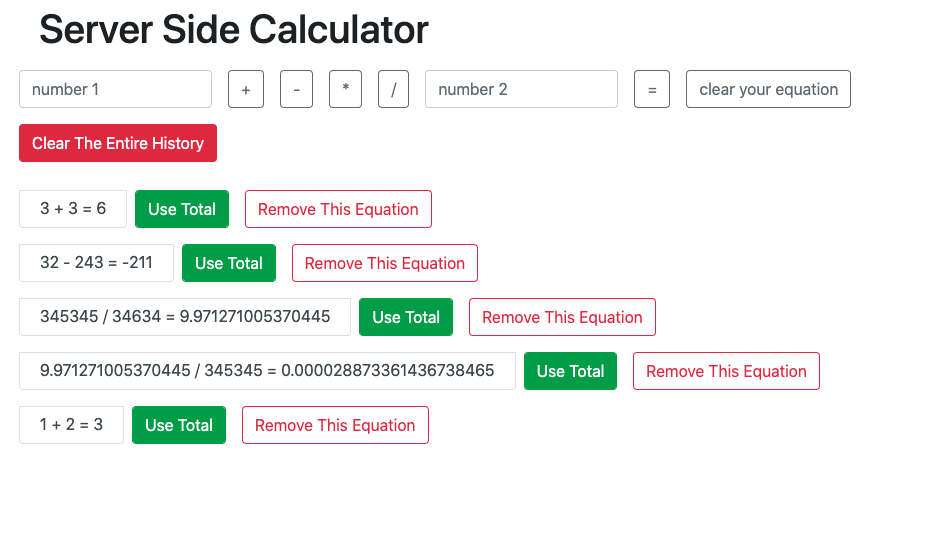
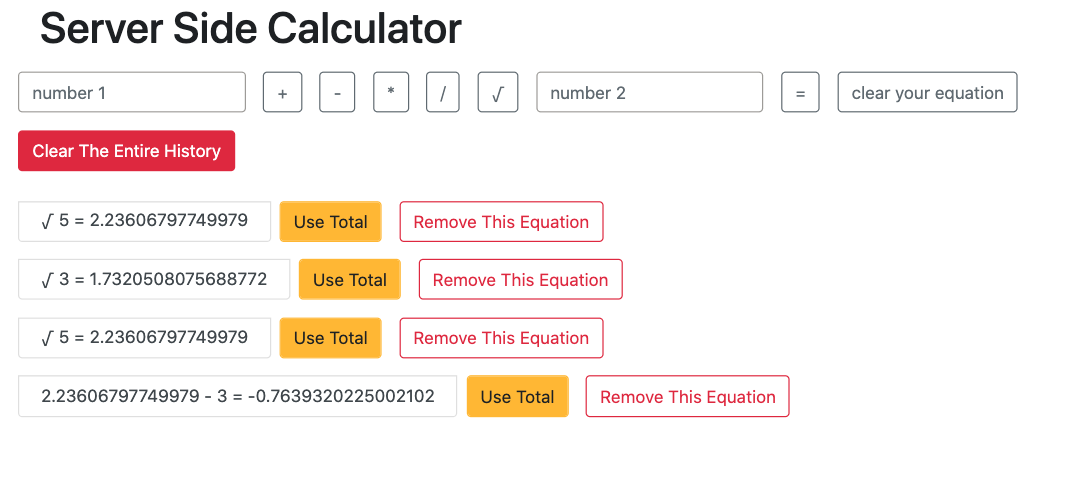
final project commit to turn in

Changed region(s): [[0.0, 0.1232, 0.9677, 0.8624], [0.0312, 0.0, 0.4682, 0.0924]]

diff --git a/server/public/client.js b/server/public/client.js
@@ -8,13 +8,14 @@ function onReady() {
 }
 
 function clickListeners() {
-    $('#squareRoot').on('click', hideInput);
     $('#plusOperator, #minusOperator, #multiplyOperator, #divideOperator, #squareRoot').on('click',  clickValue);
+    $('#squareRoot').on('click', hideInput);
     $('#equalsButton').on('click', objectFilter);
     $('#resultsTarget').on('click', '.list' ,reEnterData)
     $('#deleteParent').on('click', '#clearHistory', deleteServerEquations)
     $('#resultsTarget').on('click', '.useTotal' , useTotal)
     $('#resultsTarget').on('click', '.deleteThis' , singleDelete)
+    $('#clearButton').on('click', clearInputs);
 }
 
 function keyPressListeners() {
@@ -23,34 +24,57 @@ function keyPressListeners() {
             if (e.which === 187 || e.which === 13) {
                 $('#equalsButton').siblings('button.operator').prop('disabled', false);
                 objectFilter();
-        }   else if (e.which === 189){
+            }   else if (e.which === 189 ||e.which === 109){
 
-            console.log('you pressed -');
-            if (
-                $('#minusOperator').prop('disabled') === false &&
-                $('#minusOperator').siblings('button.operator').prop('disabled') === true 
-            ) {
-                $('#minusOperator').siblings('button.operator').prop('disabled', false)
+                console.log('you pressed -');
+                if (
+                    $('#minusOperator').prop('disabled') === false &&
+                    $('#minusOperator').siblings('button.operator').prop('disabled') === true 
+                ) {
+                    $('#minusOperator').siblings('button.operator').prop('disabled', false)
 
-            } else {
-            $('#minusOperator').siblings('button.operator').prop('disabled', false);
-            $('#minusOperator').trigger('click'); 
+                } else {
+                $('#minusOperator').siblings('button.operator').prop('disabled', false);
+                $('#minusOperator').trigger('click'); 
+                }
+            } else if (e.which === 191 || e.which ===  111){
+                console.log('you pressed /');
+                if (
+                    $('#divideOperator').prop('disabled') === false &&
+                    $('#divideOperator').siblings('button.operator').prop('disabled') === true 
+                ) {
+                    $('#divideOperator').siblings('button.operator').prop('disabled', false)
+
+                } else {
+                $('#divideOperator').siblings('button.operator').prop('disabled', false);
+                $('#divideOperator').trigger('click'); 
+                }
+            } else if (e.which === 107){
+                console.log('you pressed +');
+                if (
+                    $('#plusOperator').prop('disabled') === false &&
+                    $('#plusOperator').siblings('button.operator').prop('disabled') === true 
+                ) {
+                    $('#plusOperator').siblings('button.operator').prop('disabled', false)
+    
+                } else {
+                $('#plusOperator').siblings('button.operator').prop('disabled', false);
+                $('#plusOperator').trigger('click'); 
+                }
+            } else if (e.which === 106){
+                console.log('you pressed *');
+                if (
+                    $('#multiplyOperator').prop('disabled') === false &&
+                    $('#multiplyOperator').siblings('button.operator').prop('disabled') === true 
+                ) {
+                    $('#multiplyOperator').siblings('button.operator').prop('disabled', false)
+    
+                } else {
+                $('#multiplyOperator').siblings('button.operator').prop('disabled', false);
+                $('#multiplyOperator').trigger('click'); 
+                }
             }
-        } else if (e.which === 191){
-            console.log('you pressed /');
-            if (
-                $('#divideOperator').prop('disabled') === false &&
-                $('#divideOperator').siblings('button.operator').prop('disabled') === true 
-            ) {
-                $('#divideOperator').siblings('button.operator').prop('disabled', false)
-
-            } else {
-            $('#divideOperator').siblings('button.operator').prop('disabled', false);
-            $('#divideOperator').trigger('click'); 
-            }
-        } 
-        }
-        else if (e.shiftKey === true ){
+        } else if (e.shiftKey === true ){
             if (e.which === 187){
                 console.log('you pressed +');
                 if (
@@ -76,11 +100,31 @@ function keyPressListeners() {
                 $('#multiplyOperator').trigger('click'); 
                 }
             }
+        }  
+    });
+    $(document).keydown(function (e) { 
+        if (e.altKey === true && e.which === 86){
+            console.log('you pressed √');
+                if (
+                    $('#squareRoot').prop('disabled') === false &&
+                    $('#squareRoot').siblings('button.operator').prop('disabled') === true 
+                ) {
+                    $('#squareRoot').siblings('button.operator').prop('disabled', false)
+                    $('#firstValue').show();
+    
+                } else {
+                $('#squareRoot').siblings('button.operator').prop('disabled', false);
+                $('#squareRoot').trigger('click'); 
+                }
         }
-
     })
-} 
+}
 
+function clearInputs() {
+    // event.preventDefault();
+    $('#firstValue').val('');
+    $('#secondValue').val('');
+}
 
 let operations = [];
 
@@ -134,7 +178,6 @@ function objectFilter() {
         }
             console.log(objectToSend)
             postData(objectToSend)    
-            
     }
 
 }
@@ -161,19 +204,22 @@ function postData(anotherObject) {
     })
 }
 
+//This function hides/clears the first input for the √ function
 function hideInput() {
-    if ( $('#squareRoot').siblings('button.operator').prop('disabled') === true)
-        { $('#firstValue').show();
-        $('#firstValue').val('')
-        $('#plusOperator').removeClass('list')
+    if ( 
+        $('#squareRoot').siblings('button.operator').prop('disabled') === true){
+            $('#firstValue').hide();
+            $('#firstValue').val('')
+            $('#firstValue').val(0);
+            $('#plusOperator').removeClass('list')
  
-    } else if ($('#squareRoot').siblings('button.operator').prop('disabled') === false){
-        $('#firstValue').hide();
-        $('#firstValue').val('')
-        $('#plusOperator').addClass('list')
-    }
-
-    $('#firstValue').val(0);
+    } else if (
+        $('#squareRoot').siblings('button.operator').prop('disabled') === false){
+            $('#firstValue').show();
+            $('#firstValue').val('')
+            $('#plusOperator').addClass('list')
+    } 
+    
 }
 
 
@@ -211,6 +257,8 @@ function addDataToDom(answer) {
     // append that data to the DOM
     for (let i = 0; i < answer.length; i++) {
         let returnedData = answer[i];
+        //if else statement deals the different types of returned data. square root only has one actual number
+
         if (returnedData.numOne === 'empty') {
             $('#resultsTarget').append(`
             <form class="form-inline toDelete">
@@ -228,18 +276,20 @@ function addDataToDom(answer) {
         }
     }
     //add the clear all button ONLY if there is at least list item with the class of list
+    // let totalBtn =  `<button class= "btn btn-success" id="total" > ${returnedData.total} </button>`;
     let removeAllBtn = `<button class= "btn btn-danger" id="clearHistory" > Clear The Entire History</button>`;
     let listItems = $('li.list').length;
     if ( 
         listItems > 0
-    ) {
+    ) { 
+        // $('#total').empty();
+        // $('#total').append(totalBtn);
         $('#deleteHistory').empty();
         $('#deleteHistory').append(removeAllBtn);
     } else {
         $('#deleteHistory').empty();
     }
 }
-
 
 //need an array to deal with list items
 let arrayOfEquations = [];
@@ -253,19 +303,25 @@ function reEnterData (){
     //get clicked on equation 
     let desiredEquation = anObject[clickedIndex];
     
-    //parse out individual data of equation
+    if (desiredEquation.numOne === 'empty'){
+        desiredEquation.numOne = 0;
+    } 
+
+
+    // parse out individual data of equation
     reInputOne = Number(desiredEquation.numOne);
     reInputTwo = Number(desiredEquation.numTwo);
     operator = desiredEquation.operator;
 
-    //sanity check
+    // sanity check
     console.log(reInputOne, reInputTwo, operator);
     
-    //reset the values of inputs and operator buttons to match parsed equation data
+    // reset the values of inputs and operator buttons to match parsed equation data
     $('#firstValue').val(reInputOne);
-    $('#secondValue').val(reInputTwo)
+    $('#secondValue').val(reInputTwo);
 
-    //repress operator button, COOL!
+    
+    // repress operator button, COOL!
     if (operator === '+') {
         $('#plusOperator').trigger('click');
     } else if (operator === '-') {
@@ -274,7 +330,11 @@ function reEnterData (){
         $('#multiplyOperator').trigger('click');
     } else if (operator === '/') {
         $('#divideOperator').trigger('click');
+    } else if (operator === '√') {
+        $('#squareRoot').trigger('click');
     } 
+
+   
 }
 
 

diff --git a/server/public/index.html b/server/public/index.html
@@ -21,7 +21,9 @@
             <button class= "btn btn-outline-secondary operator form-control" id="squareRoot" type="operator" value="√"> √ </button>
             <input class="form-control"id="secondValue" type="number" placeholder="number 2">
             <button class= "btn btn-outline-secondary form-control" id="equalsButton" type="button" value="="> = </button>
+            <div>
             <button class= "btn btn-outline-secondary form-control" id="clearButton" type="clear" value="delete"> clear your equation</button>
+            </div>
         </form> 
         <div id="deleteHistory">
         </div>

diff --git a/server/public/style.css b/server/public/style.css
@@ -44,3 +44,11 @@ h1 {
     padding-top: 5px;
     padding-bottom: 5px;
 }
+
+#plusOperator{
+    margin-left: 20px;
+}
+
+#squareRoot{
+    margin-right: 20px;
+}

diff --git a/README.md b/README.md
@@ -4,20 +4,21 @@ Jquery Server Side Calculator
 
 ## Description
 
-Duration: One day sprint
+Duration: Two day sprint
 
-This app serves up a basic, one-equation calculator.  The user may only use two numbers and one operator to create an equation. Without both numbers and an operator the app will not run and the equation will not be created.  If the user input is made correctly, the equations are sent to the server, processed and stored there.  The app requests the user-selected equation, with its total, from the server. When it is received it processed and displayed as a list item.  This data will live on the local server created until either the server is turned off or it is removed by the user with the remove/clear buttons. 
+This app serves up a basic, one-equation calculator.  It processes each operator displayed +,-,*,/,√ as a one-time use calculator. The user is able to re-use the total of any previous equation by selecting the 'use total' button. Only in this way can the calculator be used for compound equations. 
 
-The problems here were three fold: 1. how to make the calculator single-use, 2. how store the user equation and total and 3. how to clear all the of users equations from DOM.  
+If the user input is entered correctly, the equations are sent to the server, processed and stored there.  The app requests the user-selected equation, with its total, from the server. When it is received it processed and displayed as a list item.  This data resides on the local server created until either the server is turned off or it is removed by the user with the remove/clear buttons. 
 
-In order to make the calculator single-use, the operator buttons are disabled after one is selected.  Conveniently, if the user changes their mind, the disabled buttons can be re-enabled by clicking again on that same operator. In order to ensure correct functionality the user must enter a number in both fields and select an operator to create an equation. A warning is displayed if user clicks "=" and those conditions are not met. 
+The problems here were three fold: 1. how to make the calculator single-use, 2. how store the user equation and total and 3. how to clear all the of users equations from the page.  
+
+In order to make the calculator single-use, the operator buttons are disabled after one is selected.  Conveniently, if the user changes their mind, the disabled buttons can be re-enabled by clicking again on that same operator. In order to ensure correct functionality the user must enter a number in both fields and select an operator to create an equation. A warning is displayed if user clicks "=" and those conditions are not met.  
 
 To solve the problem of storing the user-made data, the client.js file uses a post request with node/express/ajax to send the data to a server. The server then passes the user data to a calculation function to get the total for the equation. Once that is completed it is stored as an array of objects that contain the equations and their totals. A get request then fetches the data and passes to a function that displays the equation with its total on the Dom. The equations can be deleted from the sever one by one with the delete this equation button.  
 
-To clear the history of all equations was accomplished by using a clear entire history button and attaching it to a delete request and emptying the array of with equations and totals. In order to remove one equation at a time, the user may use the "remove this equation" button.  In order to remove this, the index value attached to list item is sent to the server with a delete request and the server removes the corresponding object.  Once the delete response is confirmed from the server the app runs a get request runs to retrieve the updated array from the server.  The updated array, without the removed equation, is displayed on the DOM. 
+To clear the history of all equations was accomplished by creating buttons attached with functionality to make a delete request. The delete requests made by one or all buttons corresponding mutate the array of equations on the server. Once the delete response is confirmed from the server the app runs a get request runs to retrieve the updated array from the server.  The updated array, without the removed equation, is displayed on the DOM. 
 
-
-Finally, if the user intends to use the calculator as an instrument to complete compound equation a button use the total of an equation is next to listed equation. By pressing the button the first input receives the value of the total. 
+Finally, key press functionality for the operators, the equals key and return key are included if the user prefers to use those instead.
 
 
 Screenshots: 
